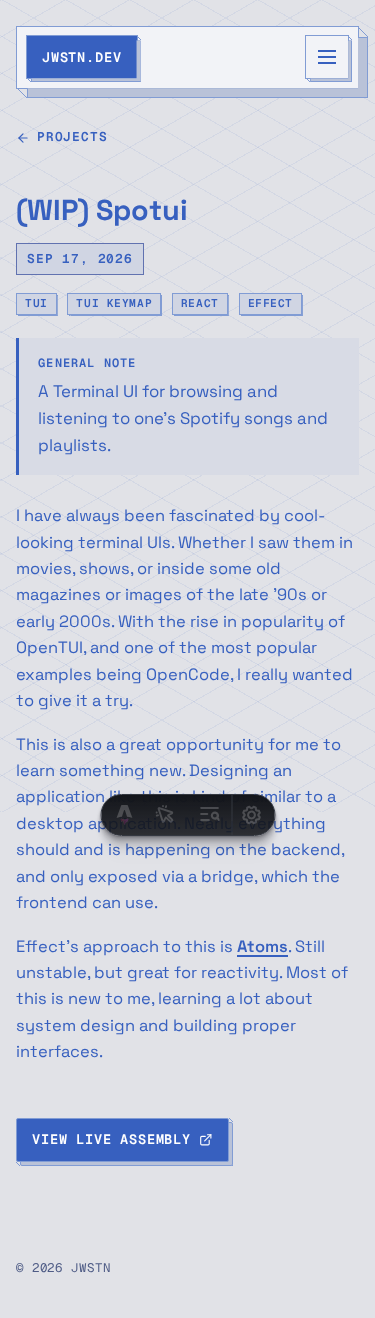
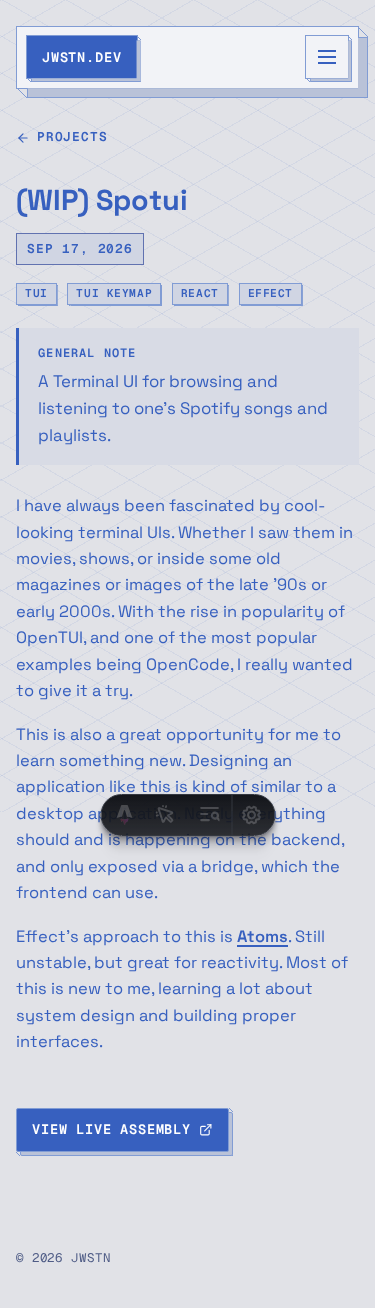
Pull detail-page headlines 10px closer to the back link (#55)

diff --git a/src/styles/theme.css b/src/styles/theme.css
@@ -768,7 +768,7 @@ html.theme-isometric .iso-btn-face svg.lucide {
 }
 
 html.theme-isometric .iso-backrow {
-  margin: 0;
+  margin: 0 0 -0.625rem;
 }
 html.theme-isometric .iso-backlink {
   display: inline-flex;
